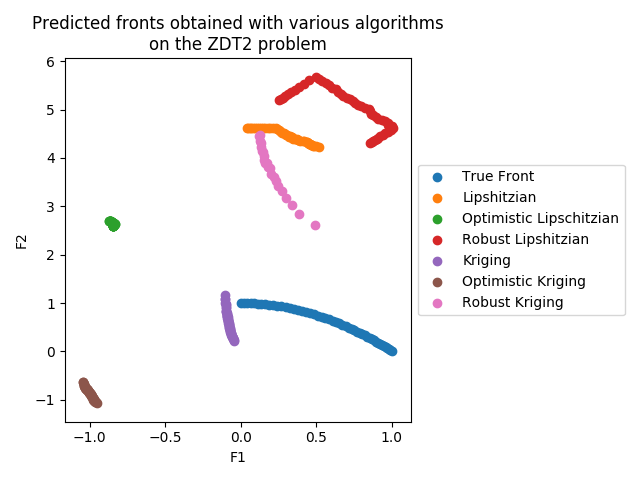
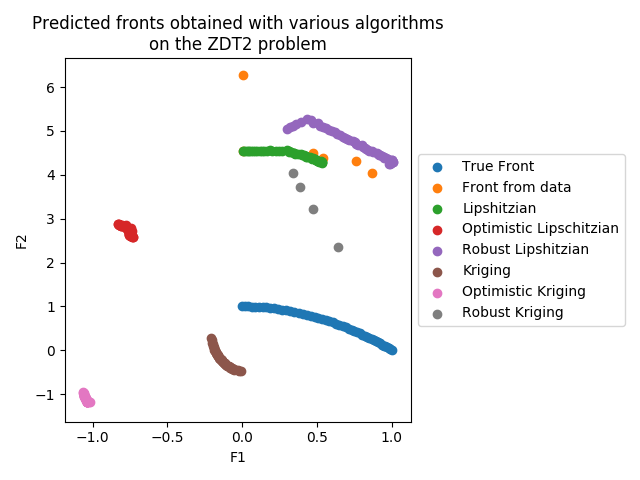
Added front form data to plots

diff --git a/examples/scripts/data_driven_opt.py b/examples/scripts/data_driven_opt.py
@@ -12,8 +12,10 @@ from pyDOE import lhs
 
 from desdeo_emo.EAs.RVEA import RVEA, oRVEA, robust_RVEA
 
+from pygmo import non_dominated_front_2d as nd2
 
-problem_names = ["ZDT4", "ZDT6"]
+
+problem_names = ["ZDT1", "ZDT2", "ZDT3", "ZDT4", "ZDT6"]
 num_var = {"ZDT1": 30, "ZDT2": 30, "ZDT3": 30, "ZDT4": 10, "ZDT6": 10}
 
 for problem_name in problem_names:
@@ -21,6 +23,9 @@ for problem_name in problem_names:
 
     x = lhs(num_var[problem_name], 250)
     y = prob.evaluate(x)
+
+    data_pareto = nd2(y.objectives)
+    data_pareto = y.objectives[data_pareto]
 
     x_names = [f"x{i}" for i in range(1, num_var[problem_name] + 1)]
     y_names = ["f1", "f2"]
@@ -79,6 +84,9 @@ for problem_name in problem_names:
     plt.clf()
     # Plot 1
     true = plt.scatter(x=front_true[:, 0], y=front_true[:, 1], label="True Front")
+    from_data = plt.scatter(
+        x=data_pareto[:, 0], y=data_pareto[:, 1], label="Front from data"
+    )
     L = plt.scatter(x=front_L[:, 0], y=front_L[:, 1], label="Lipshitzian")
     L_opt = plt.scatter(
         x=front_L_opt[:, 0], y=front_L_opt[:, 1], label="Optimistic Lipschitzian"
@@ -117,6 +125,9 @@ for problem_name in problem_names:
     plt.clf()
     # Plot 2
     true = plt.scatter(x=front_true[:, 0], y=front_true[:, 1], label="True Front")
+    from_data = plt.scatter(
+        x=data_pareto[:, 0], y=data_pareto[:, 1], label="Front from data"
+    )
     L = plt.scatter(x=front_L[:, 0], y=front_L[:, 1], label="Lipshitzian")
     L_opt = plt.scatter(
         x=front_L_opt[:, 0], y=front_L_opt[:, 1], label="Optimistic Lipschitzian"
